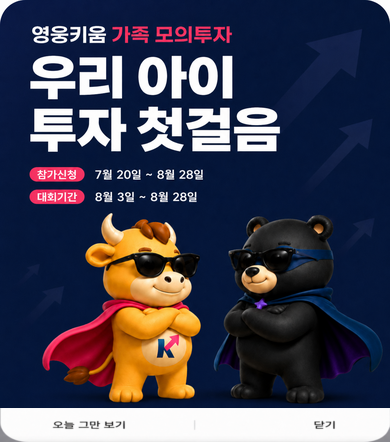
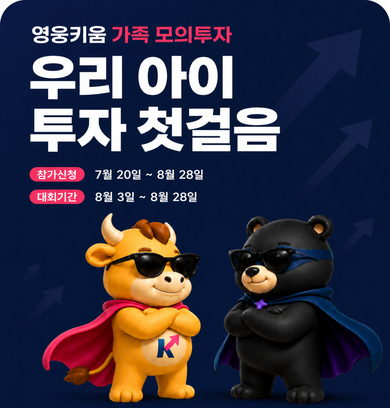
배너를 화면 아래로 내리고 손잡이 줄을 직접 그린다
그림은 새로 받은 artwork 하나만 쓴다. 위쪽 두 모서리에 남아 있던 흰 아크는
자산에서 잘라 냈다 — 그림이 폭에 맞춰 늘어나므로 CSS radius 로 덮으면 원본
아크와 어긋나 흰 실선이 남는다.

오늘 그만 보기·닫기 흰 띠는 그림에서 떼어 React 가 그린다. 누를 자리를 그림
비율로 어림하지 않아도 되고 문구를 고치려고 그림을 다시 받지 않아도 된다.

diff --git a/web/features/f0-home/HomeScreen.tsx b/web/features/f0-home/HomeScreen.tsx
@@ -216,24 +216,40 @@ const SHEET_LIST = styleFromCss(
 const SHEET_REST = styleFromCss("flex:1;min-height:24px");
 
 /**
- * 홈 진입 배너. 가로는 화면 폭에 꽉 채우고 세로는 이미지 자체 비율(390:442)이 화면
- * 절반쯤을 채운다 — 별도로 높이를 못 박지 않는다. 뒤는 어둡게 깔아 배너를 도드라지게
- * 한다.
+ * 홈 진입 배너. **화면 맨 아래에 붙는다.** 가로는 화면 폭에 꽉 차고 세로는 그림 비율
+ * (390:408)이 정한다 — 아래 손잡이 줄까지 더해 화면 절반쯤이 된다. 높이를 px 로 못
+ * 박지 않는다: 그림을 갈아 끼우면 그 값이 조용히 틀려진다.
+ *
+ * 뒤는 어둡게 깔아 배너를 도드라지게 한다.
  */
 const BANNER_SCRIM = styleFromCss(
   "position:absolute;inset:0;z-index:20;background:rgba(12,9,26,0.62);" +
-    "display:flex;align-items:center;justify-content:center",
+    "display:flex;align-items:flex-end;justify-content:center",
 );
-const BANNER_IMG_WRAP = styleFromCss("position:relative;width:100%;line-height:0");
+const BANNER_SHEET = styleFromCss("width:100%;line-height:0");
+/**
+ * 그림의 **위쪽 두 모서리는 이미 잘려 투명하다**(`home-banner.png`). 원본에는 그 자리에
+ * 흰 아크가 남아 있어 짙은 딤 위에 흰 뿔로 튀었다 — CSS `border-radius` 로 덮지 않는
+ * 이유는, 그림이 폭에 맞춰 늘어나므로 고정 radius 가 원본 아크와 어긋나 흰 실선이
+ * 남기 때문이다. 자른 것은 자산 쪽이 원본이다.
+ */
 const BANNER_IMG = styleFromCss("display:block;width:100%;height:auto");
 /**
- * 이미지 안에 이미 그려진 `오늘 그만 보기`·`닫기` 글자 위에 투명 버튼을 얹는다. 그 문구
- * 자리는 이미지 바닥의 9.5%다 — 그림을 다시 그리지 않고 실제로 누를 수 있게만 만든다.
+ * 손잡이 줄은 그림이 아니라 **여기서 그린다.** 시안의 흰 띠는 글자가 박혀 있어 누를 수
+ * 있는 자리를 그림 비율로 어림해야 했고, 문구를 고치려면 그림을 다시 받아야 했다.
  */
-const BANNER_ACTIONS = styleFromCss("position:absolute;left:0;right:0;bottom:0;display:flex;height:9.5%");
-const BANNER_ACTION_BTN = styleFromCss(
-  "flex:1;background:transparent;border:none;padding:0;margin:0;cursor:pointer",
+const BANNER_ACTIONS = styleFromCss(
+  "display:flex;align-items:stretch;background:#fff;line-height:normal;padding-bottom:10px",
 );
+const BANNER_ACTION_BTN = styleFromCss(
+  "flex:1;display:flex;align-items:center;justify-content:center;height:48px;" +
+    "background:transparent;border:none;padding:0;margin:0;cursor:pointer;" +
+    "font-family:inherit;font-size:14.5px;font-weight:700;color:#8E93A8",
+);
+/** 오른쪽 `닫기` 는 기본 손짓이라 본문 색으로 세운다 — 둘이 같은 회색이면 무엇이 기본인지 안 읽힌다. */
+const BANNER_CLOSE_BTN = styleFromCss("color:#01185A");
+/** 두 손잡이를 가르는 선. 흰 띠 안에서만 서므로 위아래로 여백을 남긴다. */
+const BANNER_DIVIDER = styleFromCss("flex:none;width:1px;margin:12px 0;background:#ECECF3");
 
 const pctStyle = (holding: HomeHolding, size: number) =>
   styleFromCss(
@@ -598,7 +614,7 @@ export function HomeScreen({
 
         {showBanner && (
           <div style={BANNER_SCRIM}>
-            <div style={BANNER_IMG_WRAP}>
+            <div style={BANNER_SHEET}>
               <img
                 alt="우리 아이 투자 첫걸음 — 참가신청 7월 20일~8월 28일, 대회기간 8월 3일~8월 28일"
                 src="/ui/assets/home-banner.png"
@@ -606,20 +622,23 @@ export function HomeScreen({
               />
               <div style={BANNER_ACTIONS}>
                 <button
-                  aria-label="오늘 그만 보기"
                   onClick={() => {
                     onHideBannerForSession?.();
                     setBannerClosed(true);
                   }}
                   style={BANNER_ACTION_BTN}
                   type="button"
-                />
+                >
+                  오늘 그만 보기
+                </button>
+                <div style={BANNER_DIVIDER} />
                 <button
-                  aria-label="닫기"
                   onClick={() => setBannerClosed(true)}
-                  style={BANNER_ACTION_BTN}
+                  style={{ ...BANNER_ACTION_BTN, ...BANNER_CLOSE_BTN }}
                   type="button"
-                />
+                >
+                  닫기
+                </button>
               </div>
             </div>
           </div>

diff --git a/web/features/f0-home/AGENTS.md b/web/features/f0-home/AGENTS.md
@@ -33,3 +33,4 @@
 - 주문 1/2/3 단계와 상세→뉴스처럼 **주소가 안 바뀌는 자리**는 `onStage`로 올린다. `onLeave`와 같은 패턴이고, 밖에서 지금 어디인지 알아야 하는 것은 이 경로로만 안다. 매수·매도는 화면도 단계도 같으므로 튜토리얼에는 `side`도 함께 넘긴다 — 빠지면 팔러 간 화면에 사는 설명이 남는다.
 - 현재 메인 프로토타입에는 전역 부모↔자녀 스위처가 연결되지 않았다.
 - **홈 진입 배너는 `HomeScreen`이 그리고 `오늘 그만 보기` 상태만 `ConnectedPrototype`이 갖는다.** 배너는 홈에 들어올 때마다 다시 뜨는 게 기본값이고, 이건 `HomeScreen`이 오갈 때마다 다시 마운트되며 지역 상태가 초기화되는 것만으로 이뤄진다 — 별도 재노출 로직을 두지 않는다. `오늘 그만 보기`만 아카이브 안내·캔들 안내와 같은 이유로 부모가 들고 로그인 세션의 수명을 따른다(로그아웃·새 로그인에서 초기화). 브라우저 저장소는 쓰지 않는다.
+- **배너는 화면 맨 아래에 붙고, `오늘 그만 보기`·`닫기` 흰 띠는 그림이 아니라 React가 그린다.** 높이를 px로 못 박지 않는다 — 가로만 화면 폭에 채우고 세로는 그림 비율(390:408)이 정한다. `home-banner.png`는 **위쪽 두 모서리를 이미 투명하게 잘라 둔 자산**이다: 원본에는 흰 아크가 남아 있어 짙은 딤 위에 흰 뿔로 튀었고, 그림이 폭에 맞춰 늘어나므로 CSS `border-radius`로 덮으면 원본 아크와 어긋나 흰 실선이 남는다. 자산을 갈아 끼울 때 이 잘라내기를 다시 해야 한다.

diff --git a/web/features/f0-home/CLAUDE.md b/web/features/f0-home/CLAUDE.md
@@ -33,3 +33,4 @@
 - 주문 1/2/3 단계와 상세→뉴스처럼 **주소가 안 바뀌는 자리**는 `onStage`로 올린다. `onLeave`와 같은 패턴이고, 밖에서 지금 어디인지 알아야 하는 것은 이 경로로만 안다. 매수·매도는 화면도 단계도 같으므로 튜토리얼에는 `side`도 함께 넘긴다 — 빠지면 팔러 간 화면에 사는 설명이 남는다.
 - 현재 메인 프로토타입에는 전역 부모↔자녀 스위처가 연결되지 않았다.
 - **홈 진입 배너는 `HomeScreen`이 그리고 `오늘 그만 보기` 상태만 `ConnectedPrototype`이 갖는다.** 배너는 홈에 들어올 때마다 다시 뜨는 게 기본값이고, 이건 `HomeScreen`이 오갈 때마다 다시 마운트되며 지역 상태가 초기화되는 것만으로 이뤄진다 — 별도 재노출 로직을 두지 않는다. `오늘 그만 보기`만 아카이브 안내·캔들 안내와 같은 이유로 부모가 들고 로그인 세션의 수명을 따른다(로그아웃·새 로그인에서 초기화). 브라우저 저장소는 쓰지 않는다.
+- **배너는 화면 맨 아래에 붙고, `오늘 그만 보기`·`닫기` 흰 띠는 그림이 아니라 React가 그린다.** 높이를 px로 못 박지 않는다 — 가로만 화면 폭에 채우고 세로는 그림 비율(390:408)이 정한다. `home-banner.png`는 **위쪽 두 모서리를 이미 투명하게 잘라 둔 자산**이다: 원본에는 흰 아크가 남아 있어 짙은 딤 위에 흰 뿔로 튀었고, 그림이 폭에 맞춰 늘어나므로 CSS `border-radius`로 덮으면 원본 아크와 어긋나 흰 실선이 남는다. 자산을 갈아 끼울 때 이 잘라내기를 다시 해야 한다.
